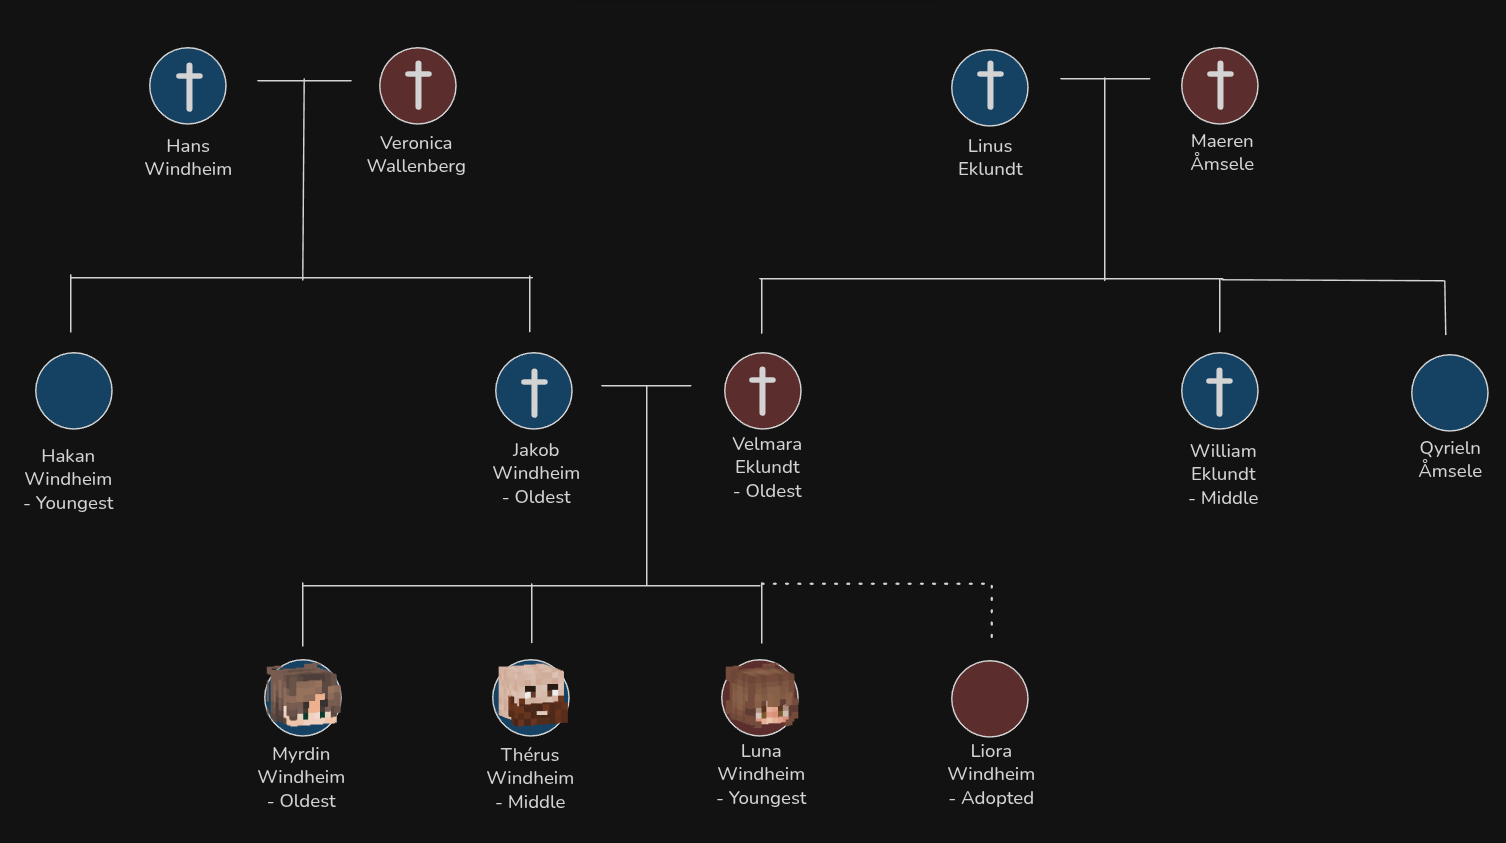
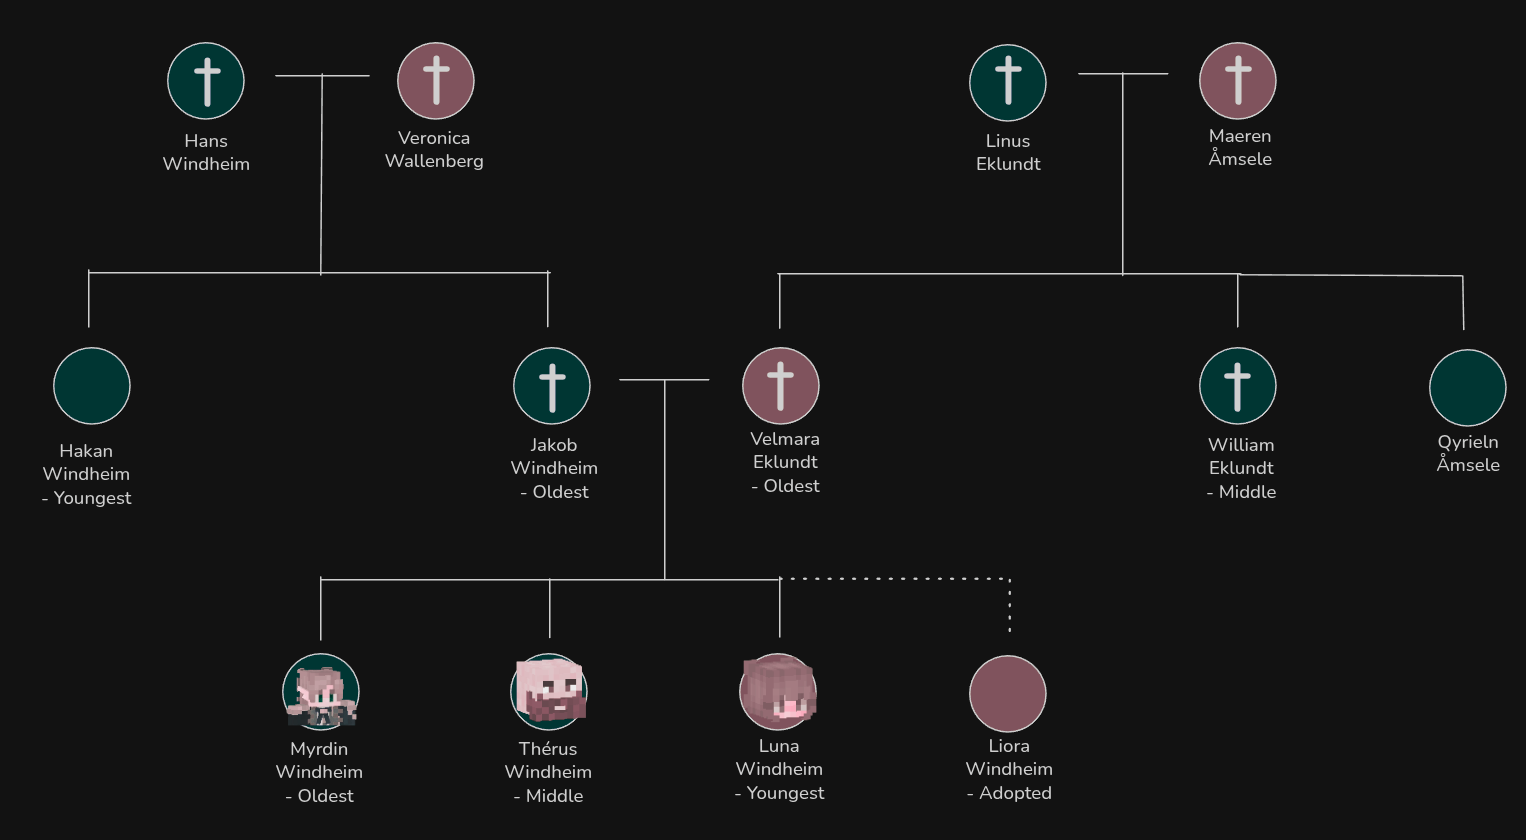
Quartz sync: Jan 30, 2026, 5:05 AM

diff --git a/content/Religion/The Order of Mytvran.md b/content/Religion/The Order of Mytvran.md
@@ -90,8 +90,7 @@ Meetings are sometimes held in cycles of thirty-three days, and certain rituals 
 Hierarchy within the Order is referred to as stations, resembling maritime traditions. 
 
 ### List of Ranks
-
-`[TBD]`
+- 
 
 - - -
 
